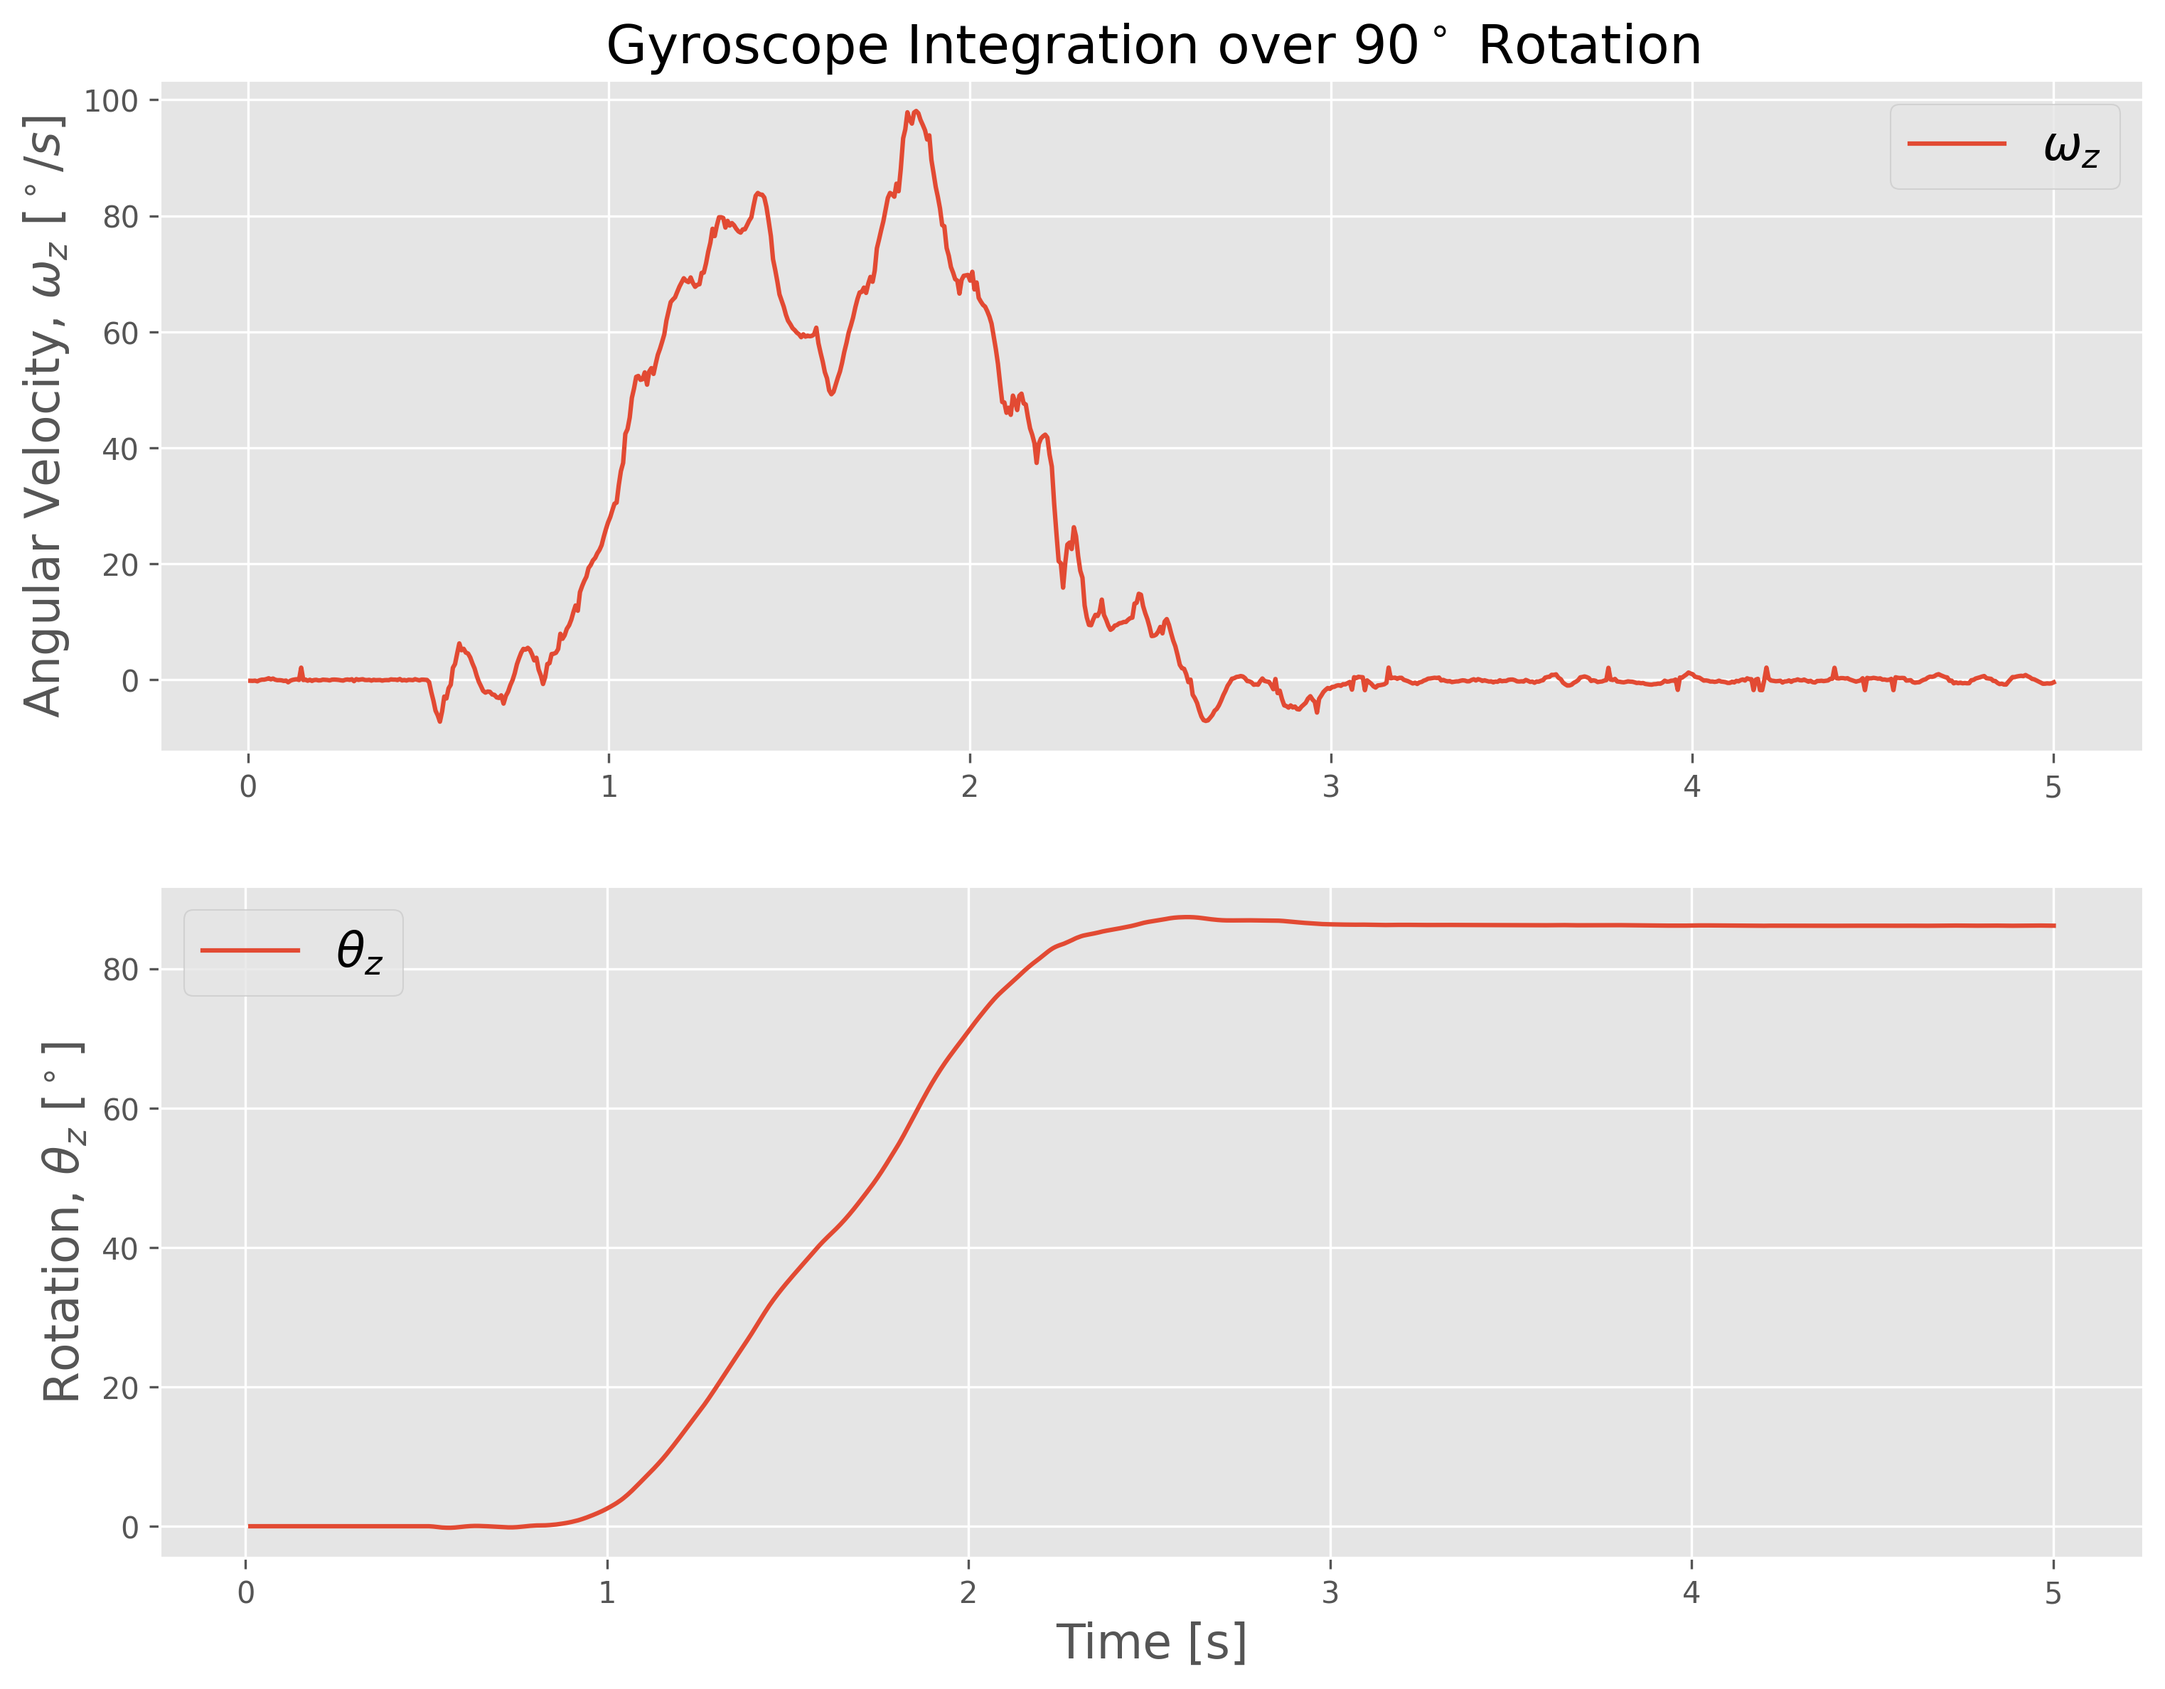
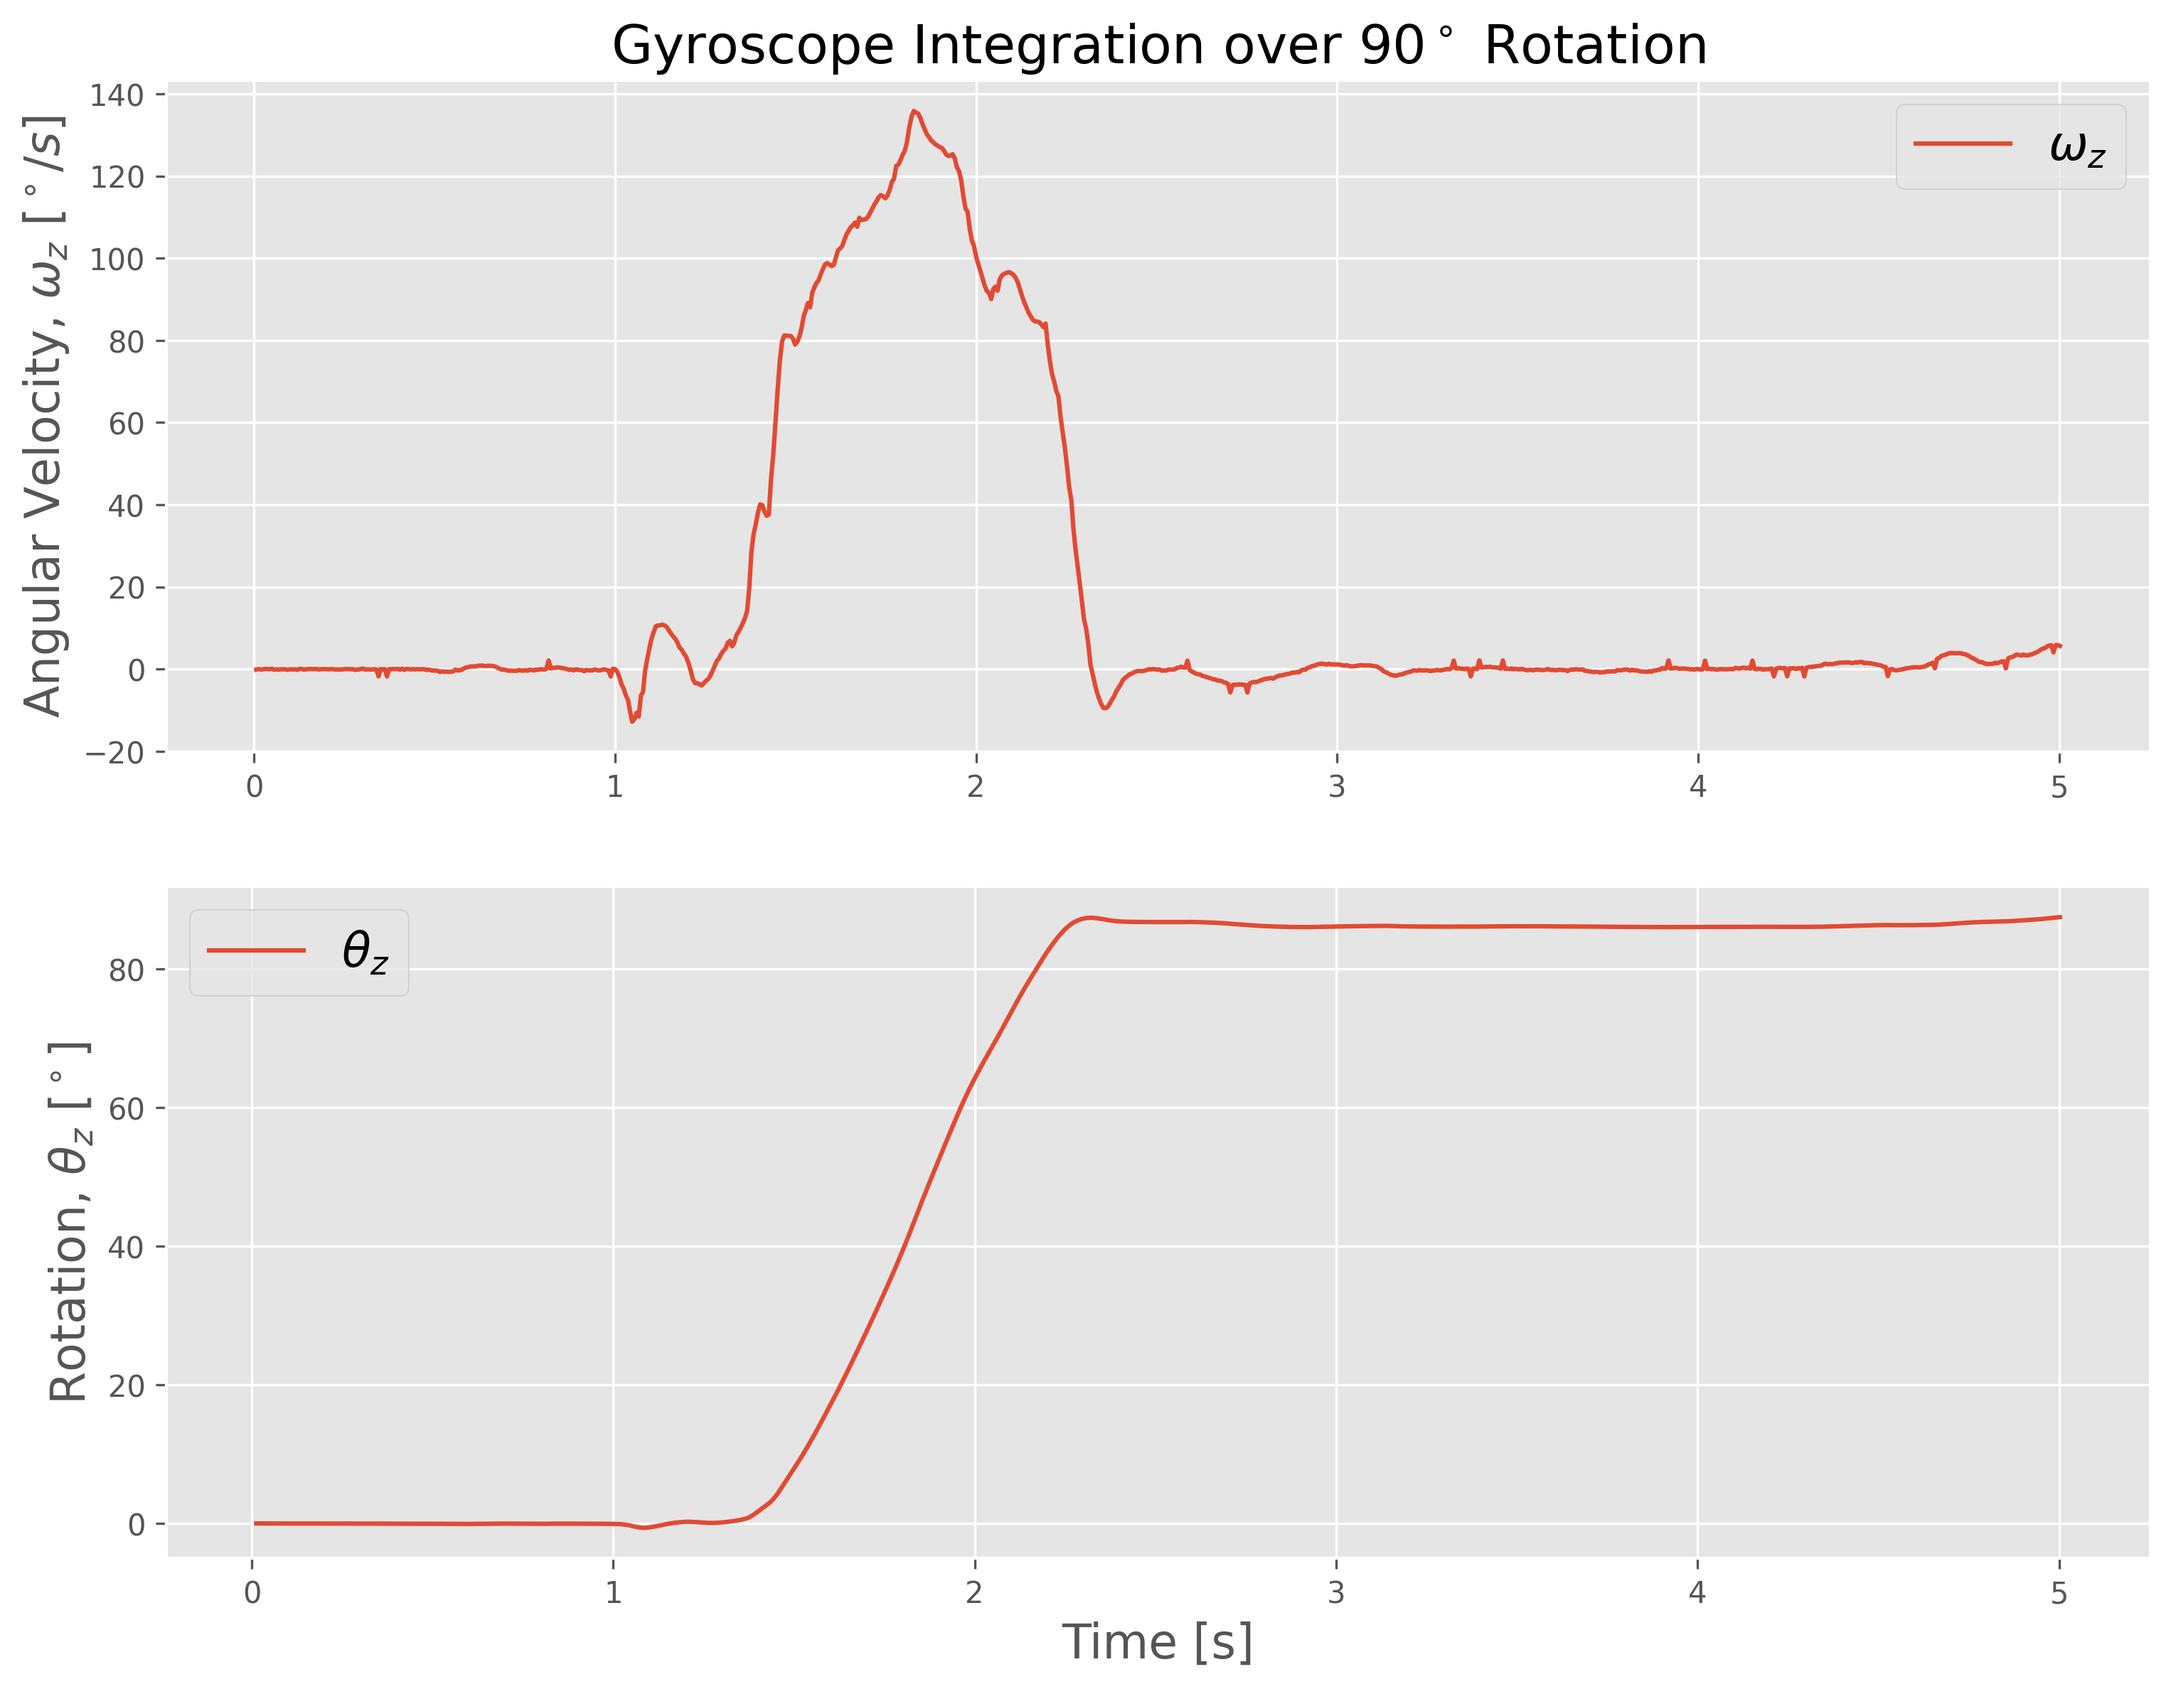
added calibrated movement

diff --git a/calibrated_movement.py b/calibrated_movement.py
@@ -2,13 +2,14 @@ from MPU.mpu9250_i2c import *
 from linear_test import *
 from MPU.gyro_integrate import *
 
+angle_thresh = 84.2
+
 def get_gyro():
     _,_,_,wx,wy,wz = mpu6050_conv() # read and convert gyro data
     return wx,wy,wz
 
 def gyro_cal(cal_size):
     print("-"*50)
-    print('Gyro Calibrating - Keep the IMU Steady')
     [get_gyro() for ii in range(0,cal_size)] # clear buffer before calibration
     mpu_array = []
     gyro_offsets = [0.0,0.0,0.0]
@@ -24,7 +25,6 @@ def gyro_cal(cal_size):
             for qq in range(0,3):
                 gyro_offsets[qq] = np.mean(np.array(mpu_array)[:,qq]) # average
             break
-    print('Gyro Calibration Complete')
     return gyro_offsets
     
 def mpu6050_conv():
@@ -55,30 +55,13 @@ def mpu6050_conv():
 
     
 
-def main():
-
-    print("Initializing... ")
-    
-    ###################################
-    # Gyroscope Offset Calculation
-    ###################################
-    
-    gyro_labels = ['\omega_x','\omega_y','\omega_z'] # gyro labels for plots
-    cal_size = 500 # points to use for calibration
-    gyro_offsets = gyro_cal(cal_size) # calculate gyro offsets
-
-    # Turning
-    
+def left_mpu(gyro_offsets):   
     stop()
     angle = 0
-    rot_axis = 2 # axis being rotated (2 = z-axis)
-    
-    input("Press Enter to start turning left.")
-    
-
+    rot_axis = 2 # axis being rotated (2 = z-axis) 
     data,t_vec = [],[]
     t0 = time.time()
-    while angle<85.0:
+    while angle < angle_thresh:
         left()
         data.append(get_gyro())
         t_vec.append(time.time()-t0)
@@ -89,12 +72,49 @@ def main():
         except:
             pass
     stop()
-    print("Turn completed")
 
-    print("Angle turned: {0:2.2f} degrees".format(angle))
+def right_mpu(gyro_offsets):   
+    stop()
+    angle = 0
+    rot_axis = 2 # axis being rotated (2 = z-axis) 
+    data,t_vec = [],[]
+    t0 = time.time()
+    while angle > -angle_thresh:
+        right()
+        data.append(get_gyro())
+        t_vec.append(time.time()-t0)
+        data_offseted = np.array(data)[:,rot_axis]-gyro_offsets[rot_axis]
+        integ1_array = cumtrapz(data_offseted,x=t_vec) # integrate once in time
+        try:
+            angle = integ1_array[-1]
+        except:
+            pass
+    stop()
 
-
-        
+def main():
+	
+    print("Calibarating...")
+    gyro_labels = ['\omega_x','\omega_y','\omega_z'] # gyro labels for plots
+    cal_size = 500 # points to use for calibration
+    gyro_offsets = gyro_cal(cal_size) # calculate gyro offsets
+    
+    print('Initialized.')
+    
+    while True:
+        i = input()
+        if i == '1':
+            stop()
+        elif i == '2':
+            move_one_f()
+        elif i == '3':
+            move_one_b()
+        elif i == '4':
+            left_mpu(gyro_offsets)
+        elif i == '5':
+            right_mpu(gyro_offsets)
+        else:
+            break
+    print('Done')
         
 if __name__ == '__main__':
     main()

diff --git a/linear_test.py b/linear_test.py
@@ -45,7 +45,6 @@ def stop():
     
 def fwd():
     stop()
-
     GPIO.output(motor_pin_d, GPIO.HIGH)
     GPIO.output(motor_pin_c, GPIO.HIGH)
     GPIO.output(motor_pin_a, GPIO.LOW)
@@ -189,7 +188,13 @@ def move_one_f():
     fwd()
     time.sleep(1.5)
     stop()
-    time.sleep(3)
+
+    
+def move_one_b():
+    back()
+    time.sleep(1.5)
+    stop()
+
 
 def is_obstacle():
     global threshold
@@ -223,6 +228,7 @@ def main():
                 map.append("Empty")
                 print("Moving forward")
                 move_one_f_line()
+                time.sleep(3)
                 continue
         print("Completed")
         print(map)

diff --git a/MPU/gyro_integrate.py b/MPU/gyro_integrate.py
@@ -71,7 +71,7 @@ if __name__ == '__main__':
         #
         gyro_labels = ['\omega_x','\omega_y','\omega_z'] # gyro labels for plots
         cal_size = 500 # points to use for calibration
-        gyro_offsets = gyro_cal() # calculate gyro offsets
+        gyro_offsets = gyro_cal(cal_size) # calculate gyro offsets
         #
         ###################################
         # Record new data 
